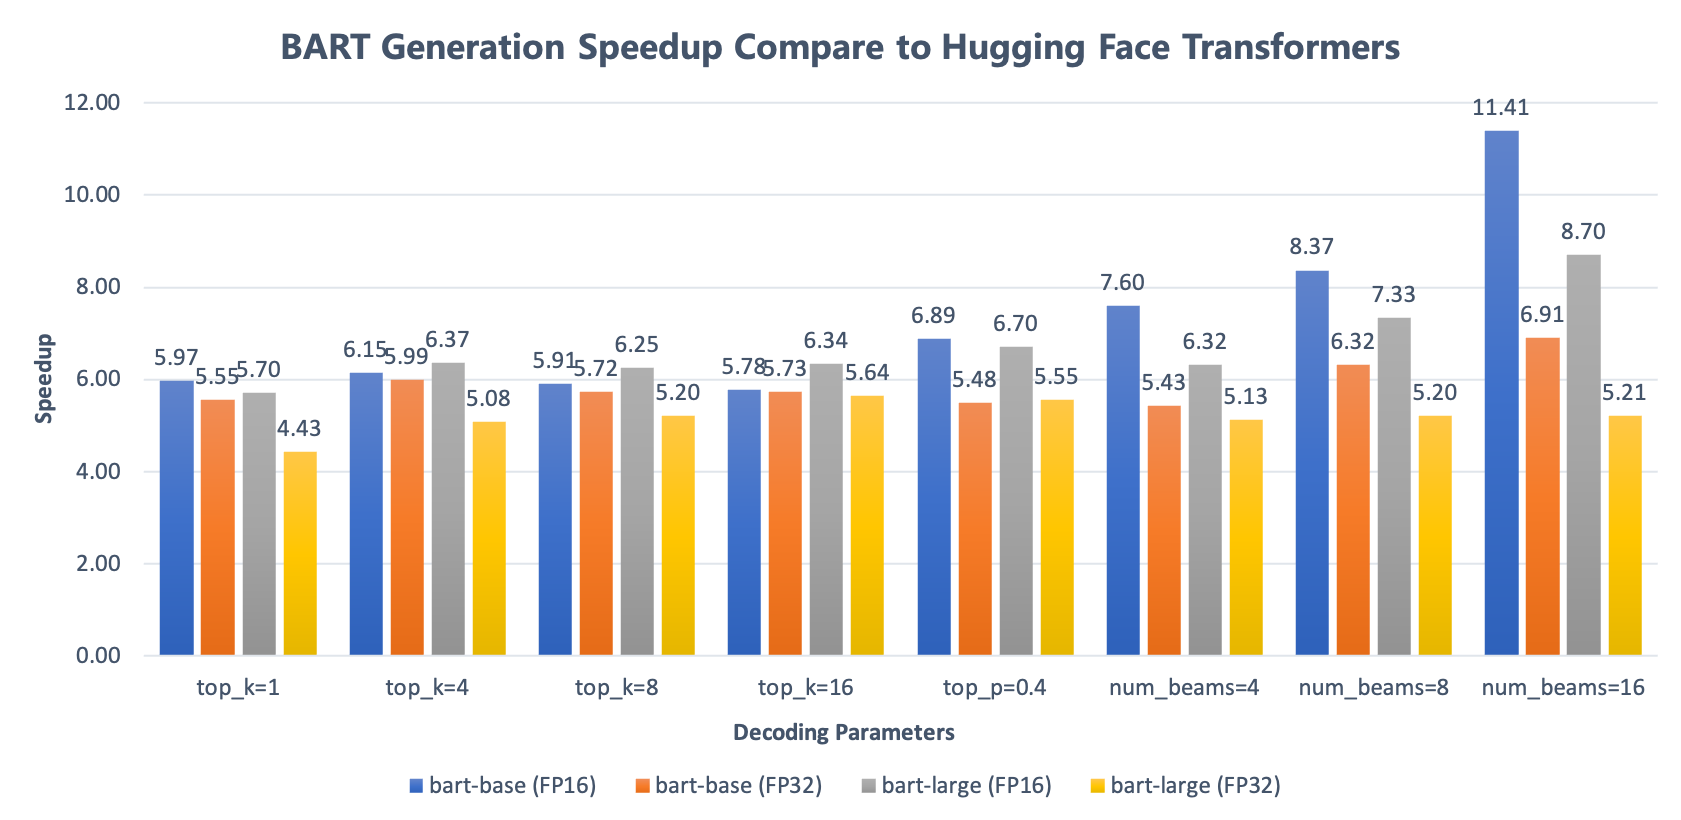
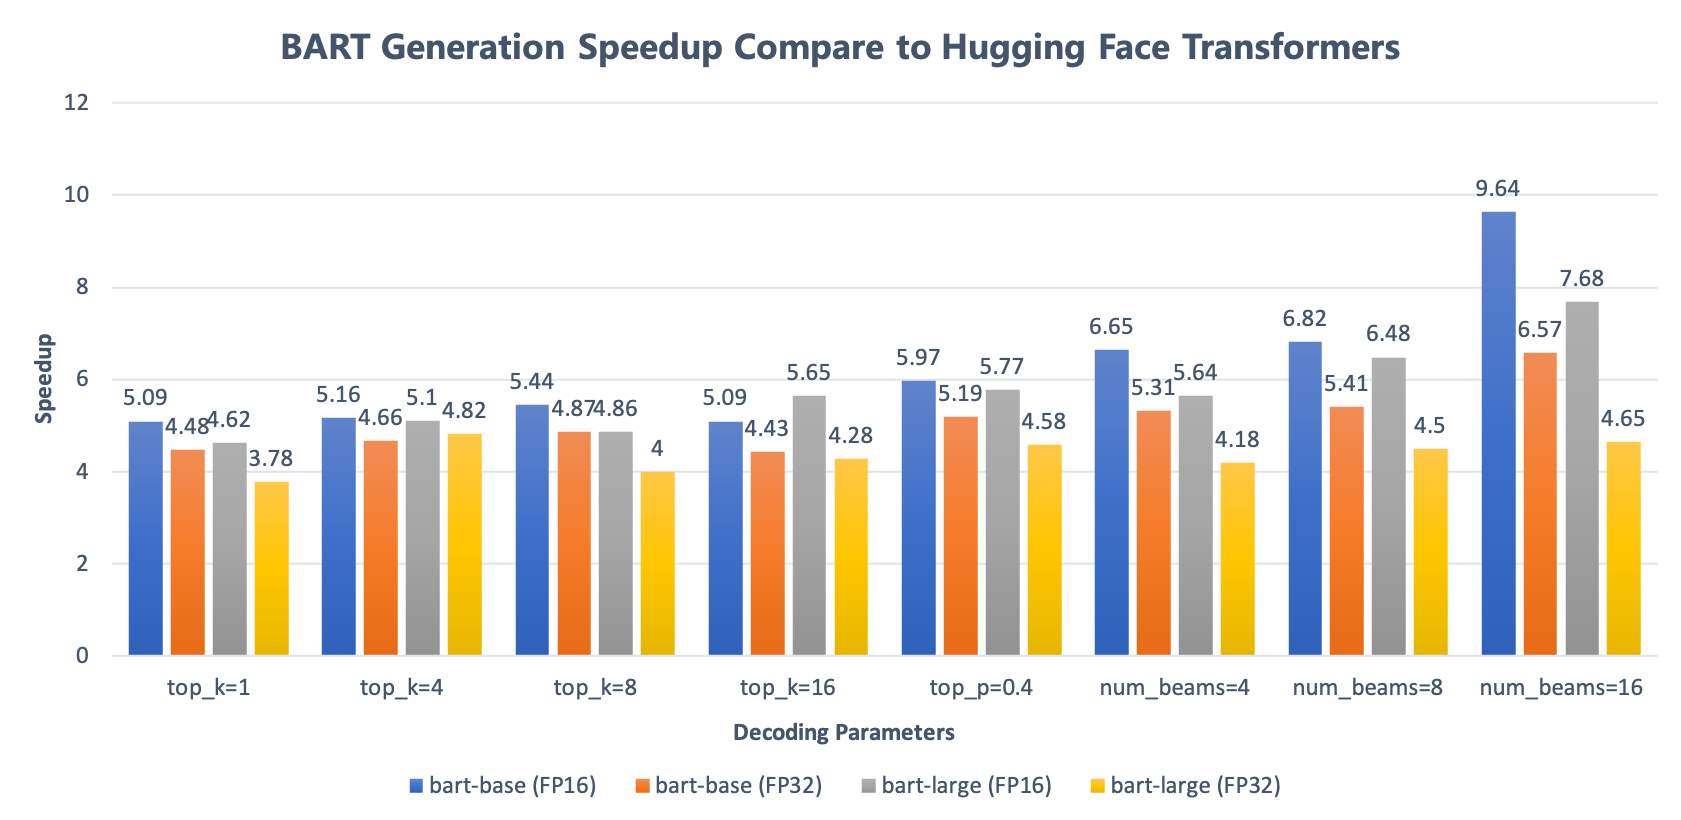
update perf (#1457)

diff --git a/examples/faster/faster_generation/perf/README.md b/examples/faster/faster_generation/perf/README.md
@@ -64,42 +64,42 @@ torch version 1.10.0+cu113, transformers version 4.12.5
 
 | Model Size | Decode Strategy| FasterGeneration(FP32)<br>(ms) | FasterGeneration(FP16)<br>(ms) | HF generate<br>(ms) | Speed Up Rate<br>(Faster32/HF) | Speed Up Rate<br>(Faster16/HF) |
 |-----|----|---|---|---|---|---|
-|num_layers = 6<br>num_attention_heads = 12<br>hidden_size = 768<br>(bart-base)|top_k = 1|30.08|27.95|166.90|5.55|5.97
-| |top_k = 4    |30.82|30.01|184.58|5.99|6.15 |
-| |top_k = 8    |32.06|31.05|183.44|5.72|5.91|
-| |top_k = 16   |32.66|32.35|187.14|5.73|5.78|
-| |top_p = 0.4  |37.99|30.25|208.33|5.48|6.89|
-| |num_beams = 4|45.99|37.51|285.01|5.43|7.6|
-| |num_beams = 8|50.12|37.82|316.56|6.32|8.37|
-| |num_beams = 16|67.66|40.98|467.76|6.91|11.41|
-|num_layers = 12<br>num_attention_heads = 16<br>hidden_size = 1024<br>(bart-large)|top_k = 1|50.23|39.08|222.59|4.43|5.7|
-| |top_k = 4|60.59|48.32|307.76|5.08|6.37|
-| |top_k = 8|59.67|49.65|310.49|5.20|6.25|
-| |top_k = 16|59.15|52.68|333.75|5.64|6.34|
-| |top_p = 0.4|61.36|50.83|340.74|5.55|6.7|
-| |num_beams = 4|65.60|53.24|336.28|5.12|6.32|
-| |num_beams = 8|76.20|54.13|396.62|5.20|7.33|
-| |num_beams = 16|102.04|61.11|531.92|5.21|8.7|
+|num_layers = 6<br>num_attention_heads = 12<br>hidden_size = 768<br>(bart-base)|top_k = 1|31.1|27.4|139.46|4.48|5.09
+| |top_k = 4    |32.13|29.06|149.81|4.66|5.16|
+| |top_k = 8    |31.7|28.36|154.3|4.87|5.44|
+| |top_k = 16   |32.93|28.66|145.85|4.43|5.09|
+| |top_p = 0.4  |33.35|29.01|173.18|5.19|5.97|
+| |num_beams = 4|47.55|38.02|252.71|5.31|6.65|
+| |num_beams = 8|52.19|41.39|282.3|5.41|6.82|
+| |num_beams = 16|67.18|45.82|441.59|6.57|9.64|
+|num_layers = 12<br>num_attention_heads = 16<br>hidden_size = 1024<br>(bart-large)|top_k = 1|45.8|37.43|173.08|3.78|4.62|
+| |top_k = 4|51.11|48.28|246.27|4.82|5.1|
+| |top_k = 8|61.61|50.67|246.19|4.0|4.86|
+| |top_k = 16|63.81|48.33|272.93|4.28|5.65|
+| |top_p = 0.4|63.0|50.05|288.76|4.58|5.77|
+| |num_beams = 4|65.54|48.58|273.84|4.18|5.64|
+| |num_beams = 8|75.68|52.59|340.86|4.5|6.48|
+| |num_beams = 16|102.87|62.25|477.97|4.65|7.68|
 
 **GPT:**
 
 | Model Size | Decode Strategy| FasterGeneration(FP32)<br>(ms) | FasterGeneration(FP16)<br>(ms) | HF generate<br>(ms) | Speed Up Rate<br>(Faster32/HF) | Speed Up Rate<br>(Faster16/HF) |
 |-----|----|---|---|---|---|---|
-|num_layers = 12<br>num_attention_heads = 12<br>hidden_size = 768<br>(gpt2)|top_k = 1|49.75|40.15|483.02|9.71|12.03|
-| |top_k = 4|49.70|41.69|496.63|9.99|11.91|
-| |top_k = 8|51.81|40.81|485.77|9.38|11.9|
-| |top_k = 16|50.36|42.88|488.38|9.70|11.39|
-| |top_p = 0.4|68.30|53.58|544.53|7.97|10.16|
-|num_layers = 24<br>num_attention_heads = 16<br>hidden_size = 1024<br>(gpt2-medium)|top_k = 1|109.86|76.88|936.02|8.52|12.18|
-| |top_k = 4|109.69|78.70|943.71|8.60|11.99|
-| |top_k = 8|109.70|78.39|963.73|8.79|12.29|
-| |top_k = 16|111.18|79.05|945.27|8.50|11.96|
-| |top_p = 0.4|127.54|89.76|999.28|7.83|11.13|
-|num_layers = 36<br>num_attention_heads = 20<br>hidden_size = 1280<br>(gpt2-large)|top_k = 1|205.92|142.85|1368.78|6.65|9.58|
-| |top_k = 4|205.43|140.40|1374.83|6.69|9.79|
-| |top_k = 8|205.62|139.47|1406.42|6.84|10.08|
-| |top_k = 16|205.16|139.77|1392.37|6.79|9.96|
-| |top_p = 0.4|221.06|152.35|1452.07|6.57|9.53|
+|num_layers = 12<br>num_attention_heads = 12<br>hidden_size = 768<br>(gpt2)|top_k = 1|50.84|40.37|399.58|7.86|9.9|
+| |top_k = 4|50.38|38.81|419.55|8.33|10.81|
+| |top_k = 8|51.23|36.78|411.7|8.04|11.19|
+| |top_k = 16|51.03|38.76|408.36|8.0|10.54|
+| |top_p = 0.4|68.55|48.04|489.45|7.14|10.19|
+|num_layers = 24<br>num_attention_heads = 16<br>hidden_size = 1024<br>(gpt2-medium)|top_k = 1|111.37|79.73|753.11|6.76|9.45|
+| |top_k = 4|110.53|80.48|767.48|6.94|9.54|
+| |top_k = 8|109.87|78.92|754.99|6.87|9.57|
+| |top_k = 16|110.61|85.26|764.16|6.91|8.96|
+| |top_p = 0.4|127.51|87.72|830.24|6.51|9.46|
+|num_layers = 36<br>num_attention_heads = 20<br>hidden_size = 1280<br>(gpt2-large)|top_k = 1|203.76|142.85|1108.26|5.44|7.76|
+| |top_k = 4|204.18|139.49|1230.63|6.03|8.82|
+| |top_k = 8|204.22|139.14|1238.96|6.07|8.9|
+| |top_k = 16|204.11|140.04|1148.05|5.62|8.2|
+| |top_p = 0.4|222.12|150.68|1248.75|5.62|8.29|
 
 
 ## 测试方法
